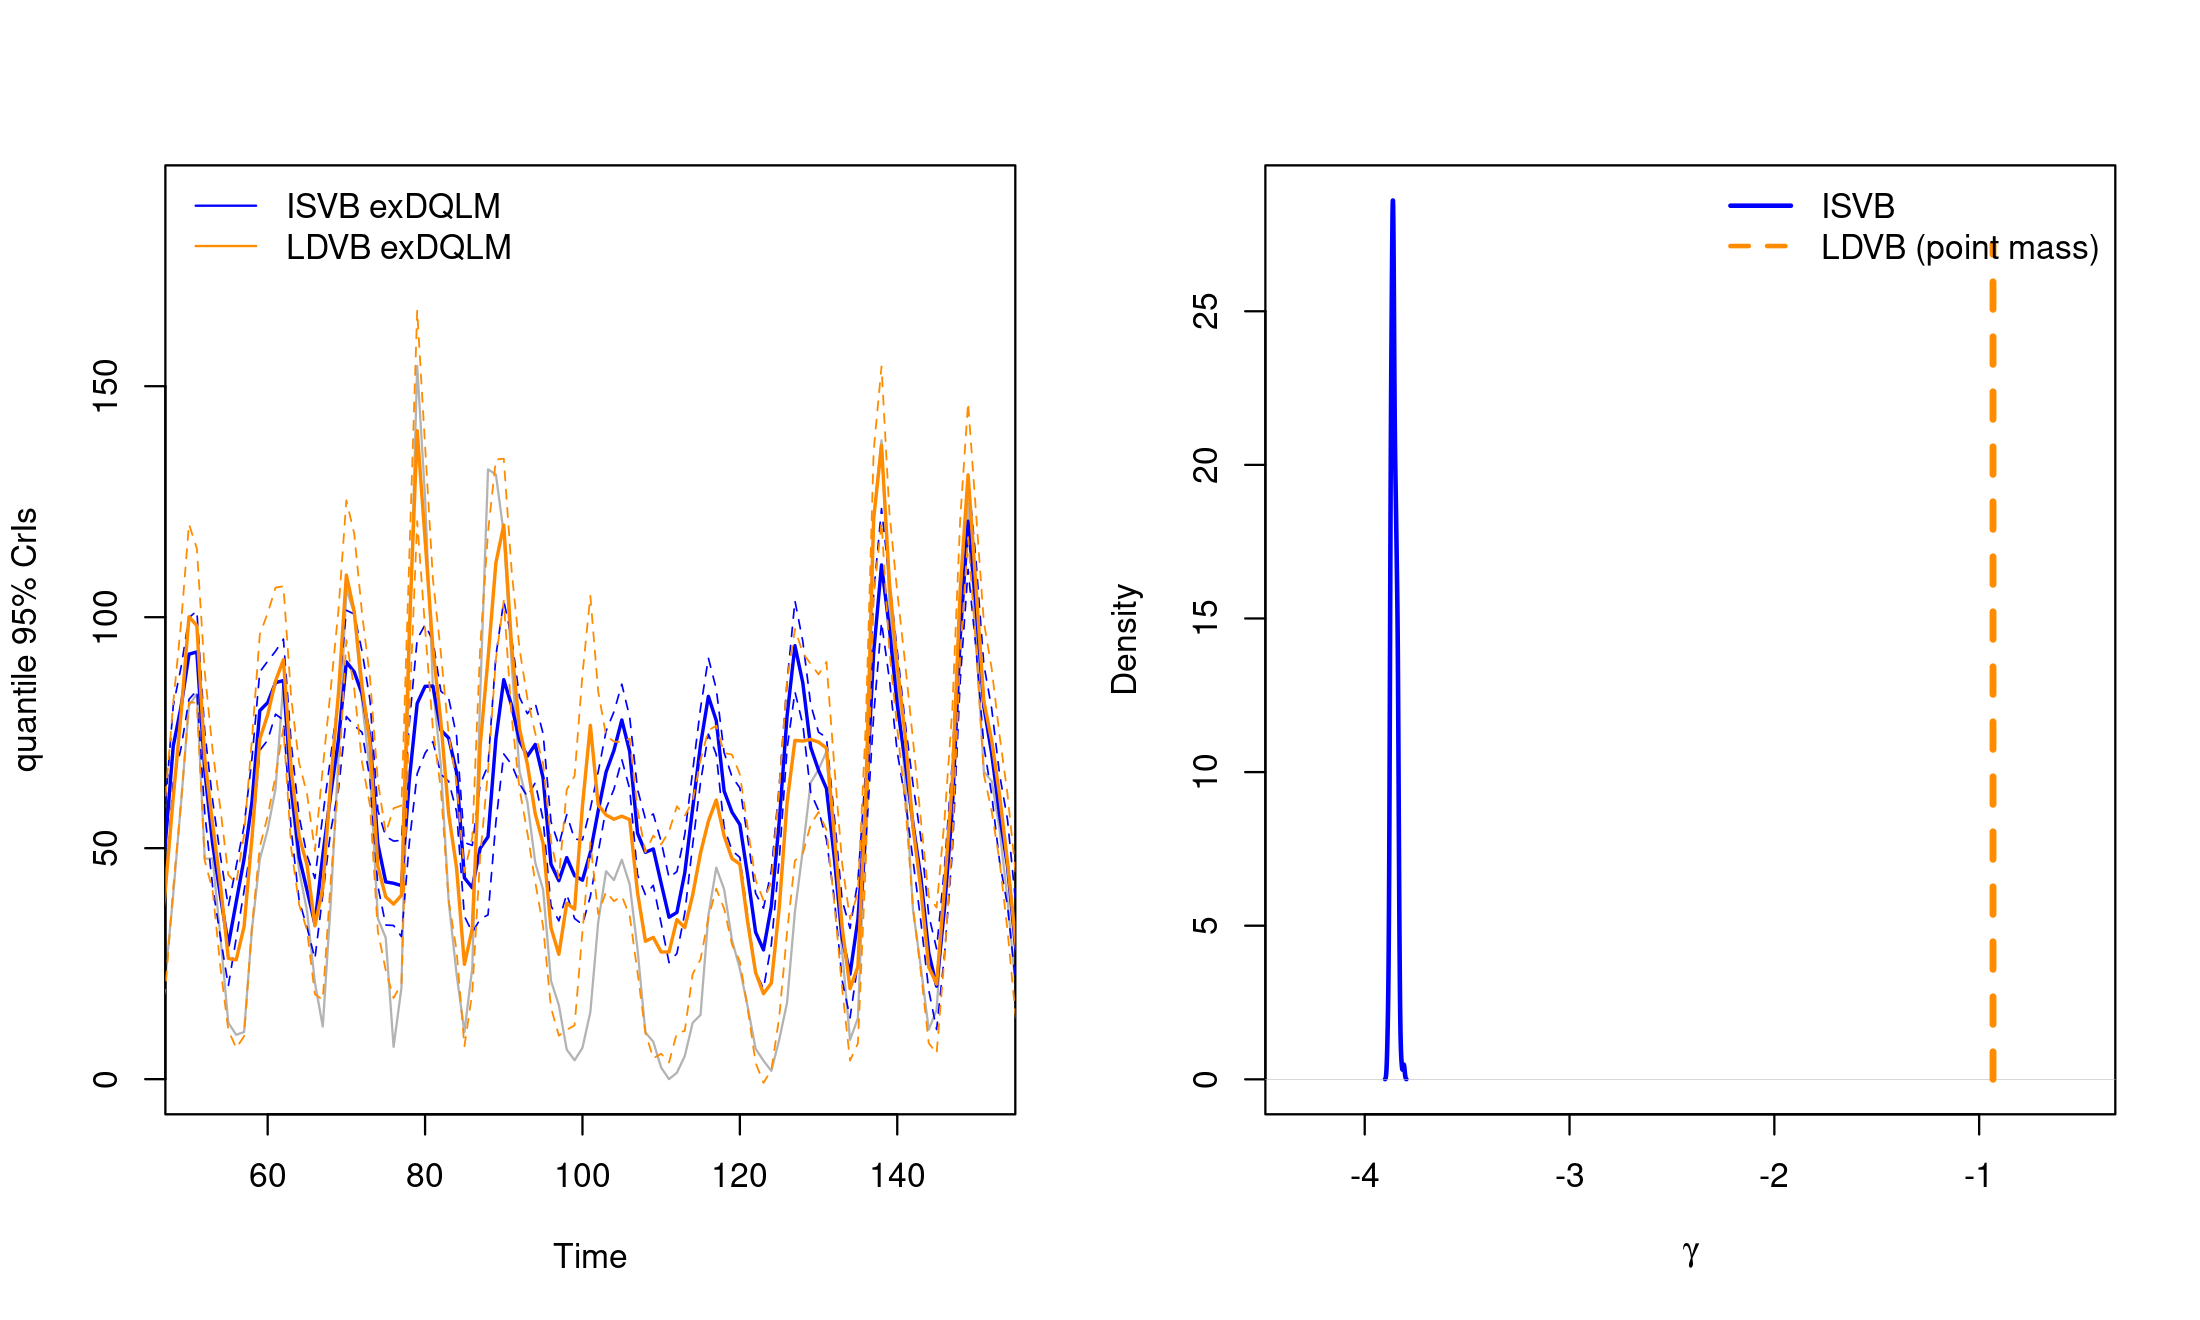
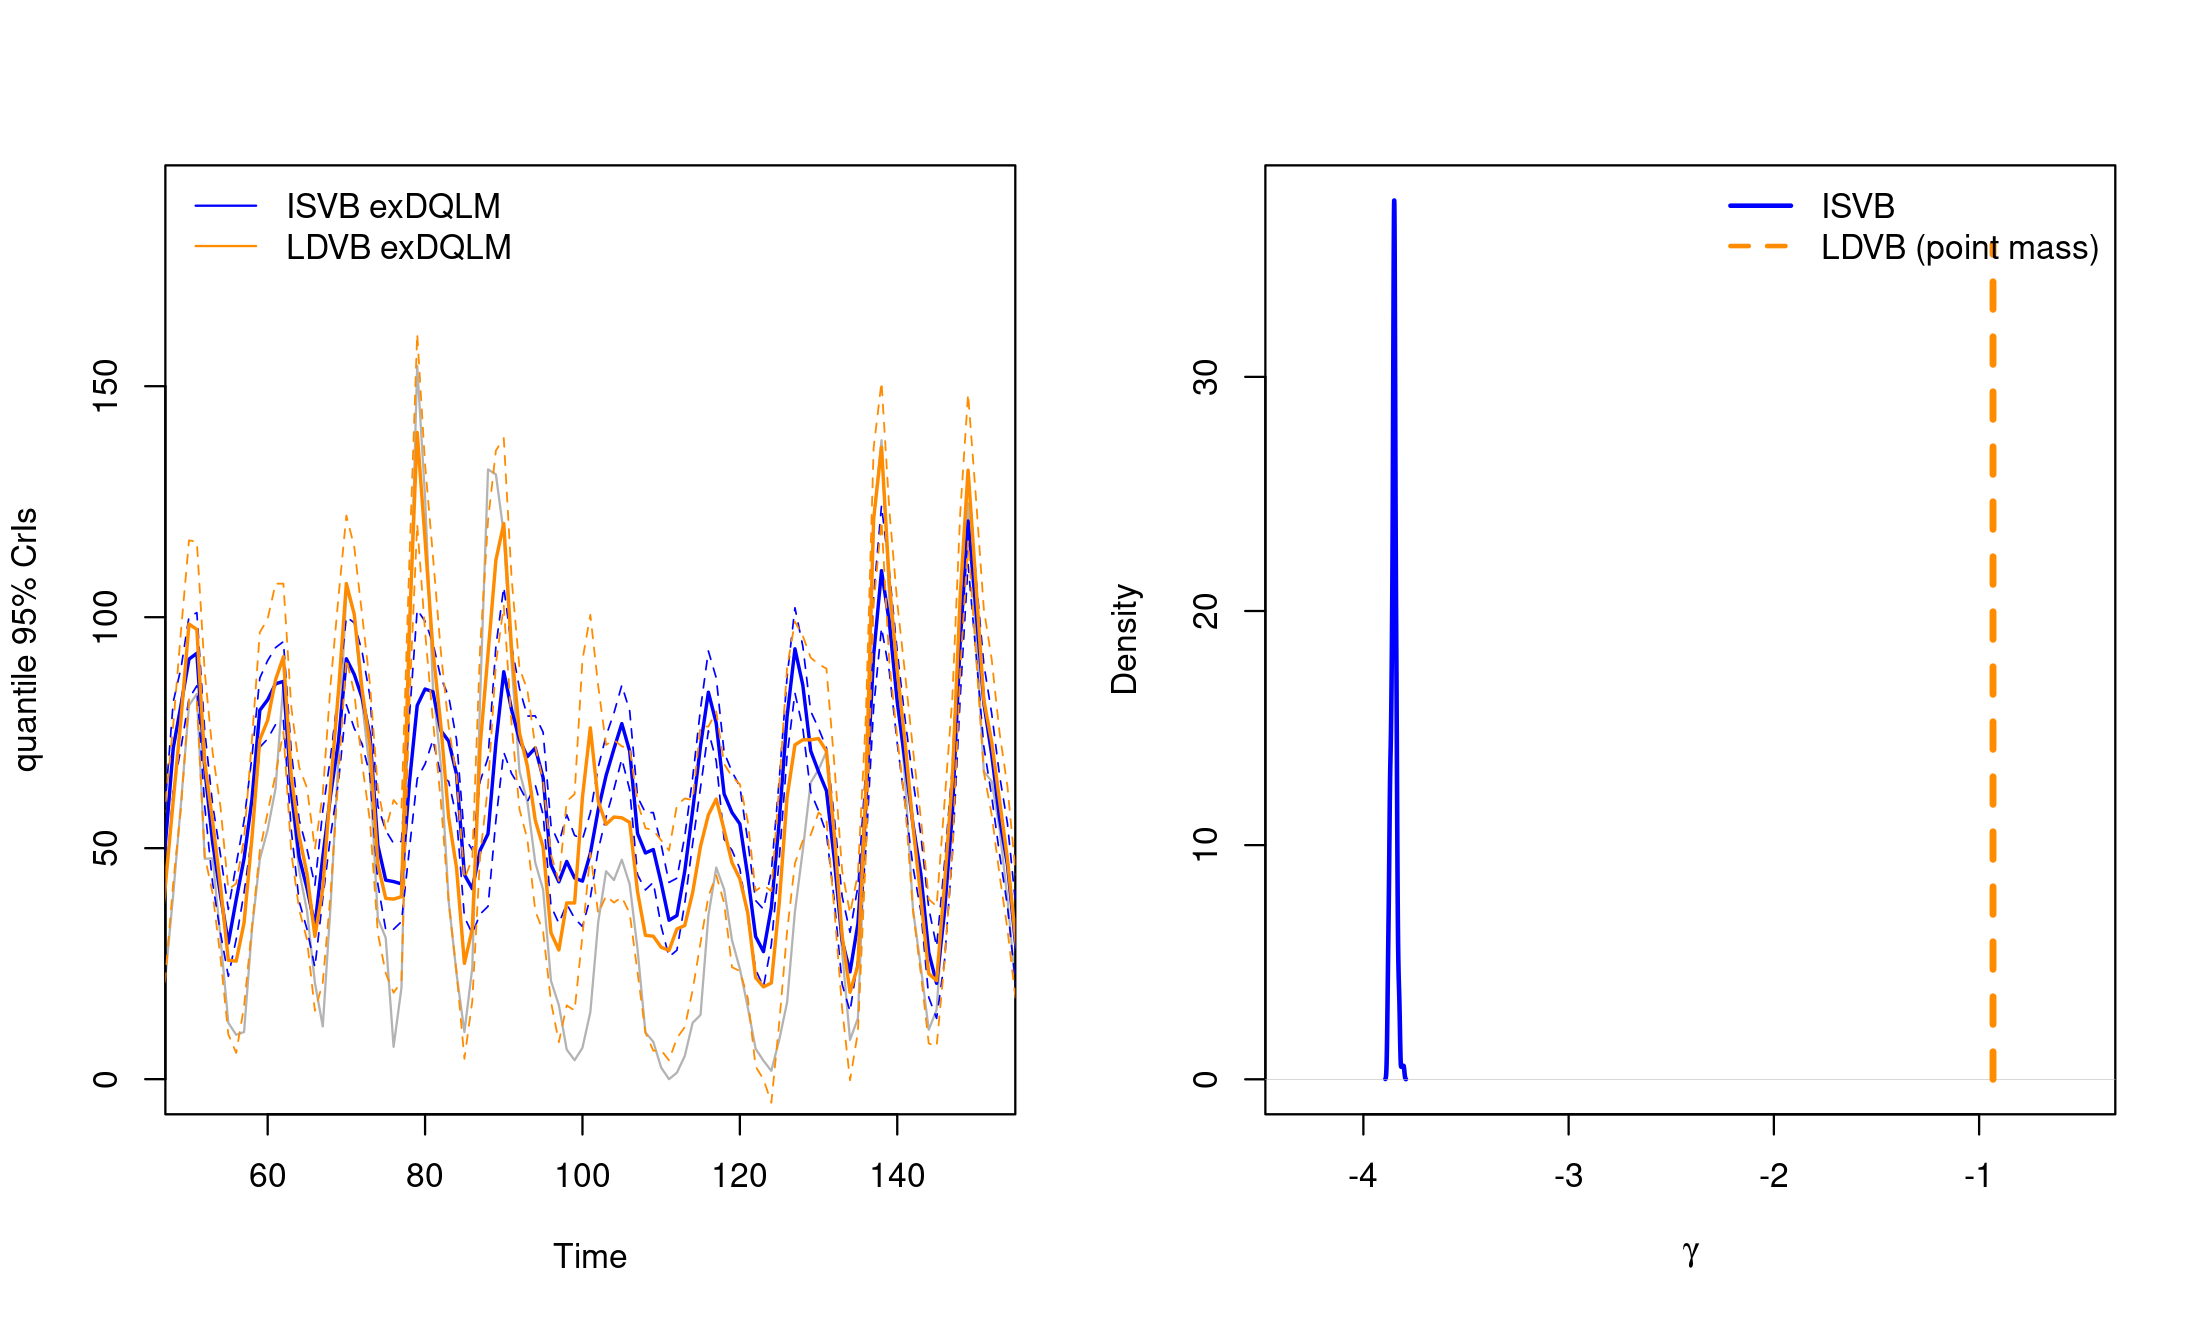
analysis: add ex2 gamma posterior CrIs and LDVB diagnostics

diff --git a/analysis/manuscript/outputs/tables/manuscript_repro_tracker.md b/analysis/manuscript/outputs/tables/manuscript_repro_tracker.md
@@ -1,6 +1,6 @@
 # Manuscript Reproducibility Tracker
 
-Generated: 2026-03-02 22:45:52
+Generated: 2026-03-03 00:10:22
 Profile: standard
 Seed: 20260302
 
@@ -16,6 +16,10 @@ Seed: 20260302
 - [reproduced] `fig_ex2quant` -> `analysis/manuscript/outputs/figures/ex2quant.png` (fig:ex2quant). Three-panel Sunspots figure (data, quantiles, gamma histogram).
 - [reproduced] `fig_ex2checks` -> `analysis/manuscript/outputs/figures/ex2checks.png` (fig:ex2checks). Generated via exdqlmDiagnostics replacement for legacy exdqlmChecks.
 - [reproduced] `fig_ex2_isvb_ldvb_compare` -> `analysis/manuscript/outputs/figures/ex2_isvb_ldvb_compare.png` (new: ISVB vs LDVB dynamic comparison). Includes robust LDVB display when gamma posterior is near-degenerate.
+- [reproduced] `fig_ex2_gamma_posteriors` -> `analysis/manuscript/outputs/figures/ex2_gamma_posteriors.png` (new: ISVB and LDVB gamma posteriors (side-by-side)). Separate gamma posterior densities with median and 95% credible intervals for each method.
+- [reproduced] `tab_ex2_gamma_credible_intervals` -> `analysis/manuscript/outputs/tables/ex2_gamma_credible_intervals.csv` (new: Example 2 gamma 95% credible intervals). Summaries from posterior samples of gamma for ISVB and LDVB.
+- [reproduced] `fig_ex2_ldvb_diagnostics` -> `analysis/manuscript/outputs/figures/ex2_ldvb_diagnostics.png` (new: LDVB convergence diagnostics). LDVB diagnostics with stricter tolerance (tol=0.01, n.samp=400); includes fit overlay, seq.gamma, seq.sigma, ELBO trace.
+- [reproduced] `ex2_ldvb_diagnostics_summary` -> `analysis/manuscript/outputs/logs/ex2_ldvb_diagnostics_summary.txt` (new: LDVB convergence diagnostics summary). Text summary for LDVB convergence diagnostics.
 - [reproduced] `tab_ex2_df_scan` -> `analysis/manuscript/outputs/tables/ex2_df_scan_kl.csv` (Example 2 discount-factor KL selection). Best pair in this run: (0.90, 0.85)
 - [reproduced] `tab_ex2_diagnostics` -> `analysis/manuscript/outputs/tables/ex2_diagnostics_summary.csv` (Example 2 diagnostic narrative). Computed with exdqlmDiagnostics.
 - [reproduced] `fig_ex3data` -> `analysis/manuscript/outputs/figures/ex3data.png` (fig:ex3data). Top: log BTflow. Bottom: nino34.
@@ -35,6 +39,7 @@ Seed: 20260302
 - backend: MCMC runs use C++ backend options exdqlm.use_cpp_mcmc=TRUE and exdqlm.cpp_mcmc_mode='fast'.
 - ex1: Lake Huron uses cached fits; ex1mcmc uses a dedicated high-iteration median MCMC chain.
 - ex2: Used explicit dlm->exdqlm conversion because as.exdqlm(dlm) errors in current package.
+- ex2_ldvb_diag: Added LDVB diagnostic refit for convergence checks (tol=0.01, n.samp=400, iter=33).
 - ex2: Sunspots KL search best seasonal discount factor=0.85 for this run profile.
 - ex3: Best lambda by KL in this run profile: 0.900.
 - coverage: All main manuscript example figures were targeted in this pipeline.

diff --git a/analysis/manuscript/README.md b/analysis/manuscript/README.md
@@ -10,6 +10,7 @@ without modifying `article4.tex`.
 - Rebuilds Example 2 (Sunspots) figures + diagnostics with `exdqlmDiagnostics`.
 - Rebuilds Example 3 (Big Tree) figures + diagnostics table.
 - Adds one extra dynamic comparison figure: ISVB vs LDVB (`ex2_isvb_ldvb_compare.png`).
+- Adds side-by-side gamma posterior comparison for Example 2 with 95% CrIs (`ex2_gamma_posteriors.png` + `ex2_gamma_credible_intervals.csv`).
 - Writes a reproducibility tracker with per-artifact status notes.
 
 ## Run
@@ -29,6 +30,8 @@ Rscript analysis/run_all.R --stage manuscript --skip-tests
 Rscript analysis/run_all.R --stage manuscript --promote
 Rscript analysis/run_all.R --stage manuscript --pkg-path /path/to/exdqlm
 Rscript analysis/run_all.R --stage manuscript --targets ex2quant --skip-tests
+Rscript analysis/run_all.R --stage manuscript --targets ex2_gamma_posteriors --skip-tests
+Rscript analysis/run_all.R --stage manuscript --targets ex2_ldvb_diagnostics --skip-tests
 Rscript analysis/run_all.R --stage manuscript --targets ex3quantcomps,ex3forecast --skip-tests
 Rscript analysis/run_all.R --stage manuscript --targets ex1mcmc --force-refit --skip-tests
 ```

diff --git a/analysis/README.md b/analysis/README.md
@@ -23,6 +23,8 @@ Rscript analysis/run_all.R --stage manuscript --skip-tests
 Rscript analysis/run_all.R --stage manuscript --promote
 Rscript analysis/run_all.R --stage manuscript --pkg-path /path/to/exdqlm
 Rscript analysis/run_all.R --stage manuscript --targets ex2quant --skip-tests
+Rscript analysis/run_all.R --stage manuscript --targets ex2_gamma_posteriors --skip-tests
+Rscript analysis/run_all.R --stage manuscript --targets ex2_ldvb_diagnostics --skip-tests
 Rscript analysis/run_all.R --stage manuscript --targets ex1mcmc --force-refit --skip-tests
 ```
 
